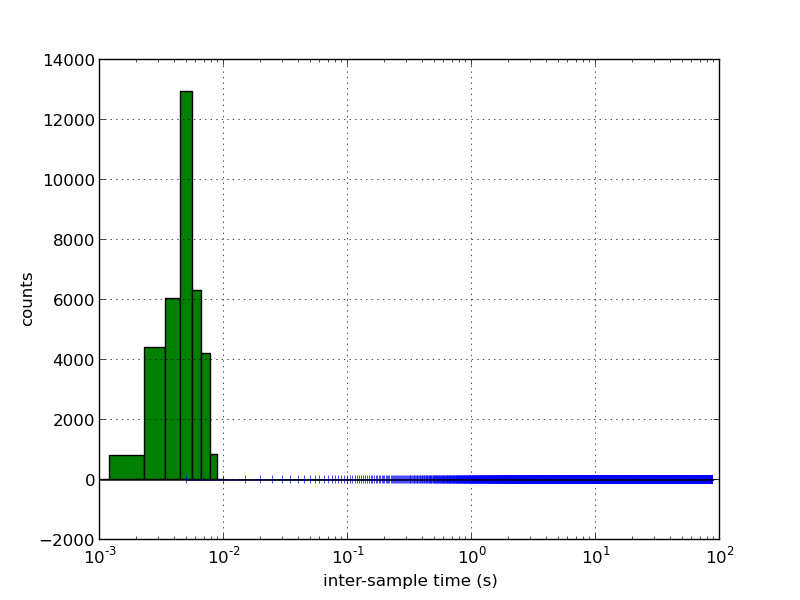
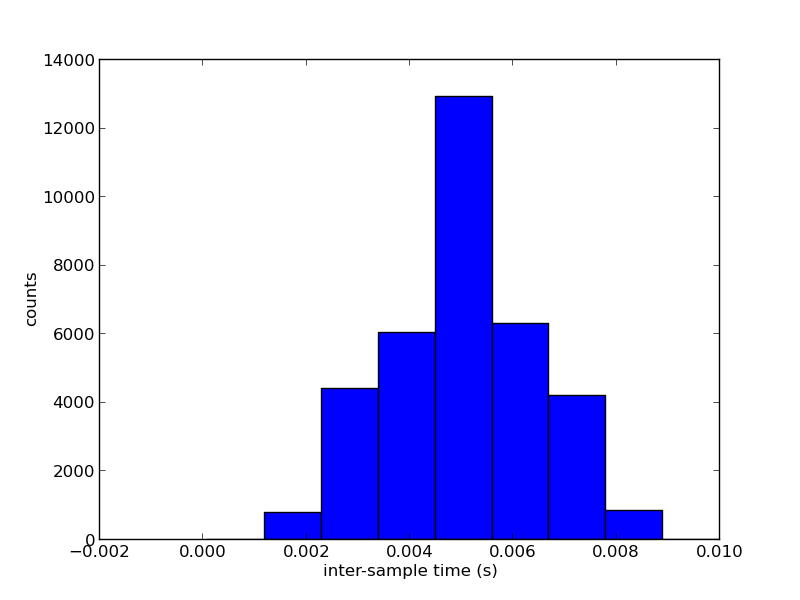
Work

diff --git a/pan_li/force-extension/correlation.py b/pan_li/force-extension/correlation.py
@@ -27,7 +27,7 @@ def autocorr(d, dt=6e-3):
 def correlation_plot(d, dt=6e-3, **kwargs):
     taus, corr = autocorr(d, dt)
     ax = pl.gca()
-    ax.plot(taus, corr, **kwargs)
+    ax.semilogx(taus, corr, **kwargs)
     ax.set_xscale('log')
     ax.set_xlabel(r'$\tau$ (seconds)')
     ax.set_ylabel(r'$G(\tau)$')
@@ -44,18 +44,20 @@ def plot_force_extension(d):
     grid[1].set_ylabel('force')
     grid[1].set_xlabel('time (s)')
 
+pl.clf()
 pl.hist(d['time'][1:] - d['time'][:-1], range=(-1e-3, 1e-2))
 pl.xlabel('inter-sample time (s)')
 pl.ylabel('counts')
 pl.savefig('jitter.png')
 pl.clf()
 
-print 'mean extension', np.mean(d['ext'][:1000]), np.mean(d['ext'][-1000:])
-def plot_smoothed(x, y, window, **kwargs):
-    s = np.r_[y, y[-1:-window:-1]]
+def smooth(x, window):
+    s = np.r_[x, x[-1:-window:-1]]
     w = np.ones(window, 'd')
-    smoothed = np.convolve(w/sum(w), s, mode='valid')
-    pl.plot(x, smoothed, **kwargs)
+    return np.convolve(w/sum(w), s, mode='valid')
+
+def plot_smoothed(x, y, window, **kwargs):
+    pl.plot(x, smooth(y, window), **kwargs)
 
 def plot_timeseries(x, y, window, bins):
     pl.xscale('linear')
@@ -67,18 +69,22 @@ dt = 5e-3
 
 xs = np.arange(min(d['time']), max(d['time']), dt)
 interp = interp1d(d['time'], d['ext'], kind='linear')(xs)
+pl.figure()
 correlation_plot(interp, dt=dt, c='b', marker='+', label='ext')
-#pl.show()
 
-def ornstein_uhlenbeck(tau, taud, offset):
-    amp = 1
-    return offset + amp * exp(-tau/taud)
+def ornstein_uhlenbeck(tau, taud, offset=0, alpha=1, amp=1):
+    return offset + amp * exp(-(tau/taud)**alpha)
 
 taus, corr = autocorr(interp, dt)
-((taud,offset), cov) = curve_fit(ornstein_uhlenbeck,
-                                 taus[taus<1e1], corr[taus<1e1],
-                                 p0=[1e-3, 0])
+fit_taus = taus[taus<1e1]
+fit_corr = corr[taus<1e1]
+(params, cov) = curve_fit(ornstein_uhlenbeck,
+                          fit_taus, fit_corr,
+                          p0=[1e-3, 0, 1])
+print 'Chi^2', np.sum((ornstein_uhlenbeck(fit_taus, *params) - fit_corr)**2)
+
+(taud,offset,alpha) = params
+print params
 taus_ = np.logspace(-3, log10(max(taus)), 1000)
-print 'tau_d', taud
-pl.plot(taus_, ornstein_uhlenbeck(taus_, taud, offset), '-k', label='Model')
+pl.semilogx(taus_, ornstein_uhlenbeck(taus_, *params), '-k', label='Model')
 pl.show()
